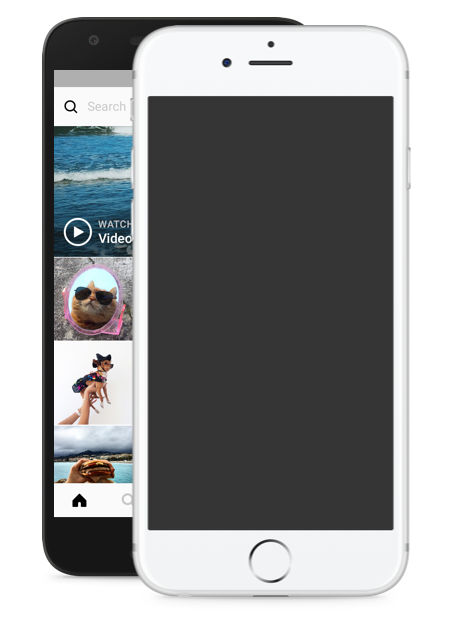
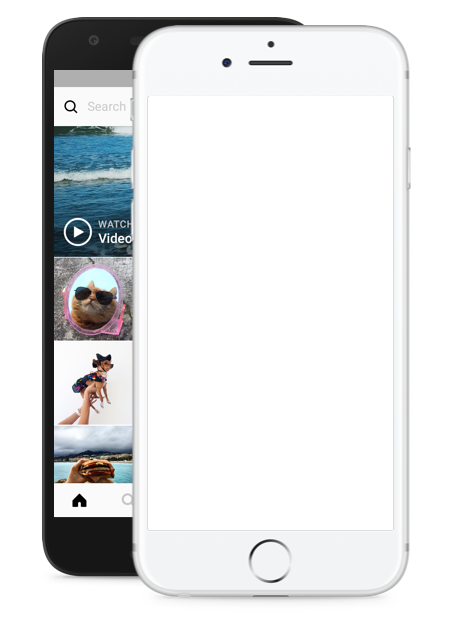
Imagem adicionada dentro da tela do Smartphone, ela não mexe independente da resolução da tela

diff --git a/Pagina do Instagram/index.html b/Pagina do Instagram/index.html
@@ -10,8 +10,8 @@
     <div class="instagram-wrapper">
         <div class="instagram-phone" style='position:relative; top:0px; left:0px;'>
             <img src="./Images/phone.png" alt="Um celular exibindo a imagem do aplicativo do instagram">
-            <div class="phonescreen" style='position:absolute; top:110px; left:128px;'>
-            <img src="" alt=""></div>
+            <div class="phonescreen">
+            <img src="./Images/0a2d3016f375.jpg" alt=""></div>
         </div>
         <div class="instagram-continue">
             <div class="conteiners">

diff --git a/Pagina do Instagram/style.css b/Pagina do Instagram/style.css
@@ -42,9 +42,27 @@ body{
     align-items: center;
     justify-content: center;
     width: 50%;
+    height: 480px;
 }
 .instagram-phone img{ 
     height: 50rem;
+    position: absolute;
+    z-index: 1;
+}
+
+.instagram-phone .phonescreen{
+  width: 280px;
+  height: 500px;
+  position: absolute;
+  margin-left: 90px;
+}
+
+
+.instagram-phone .phonescreen img{
+    position: absolute;
+    max-width: 380px;
+    max-height: 500px;
+    z-index: 0;
 }
 
 .instagram-logo{
